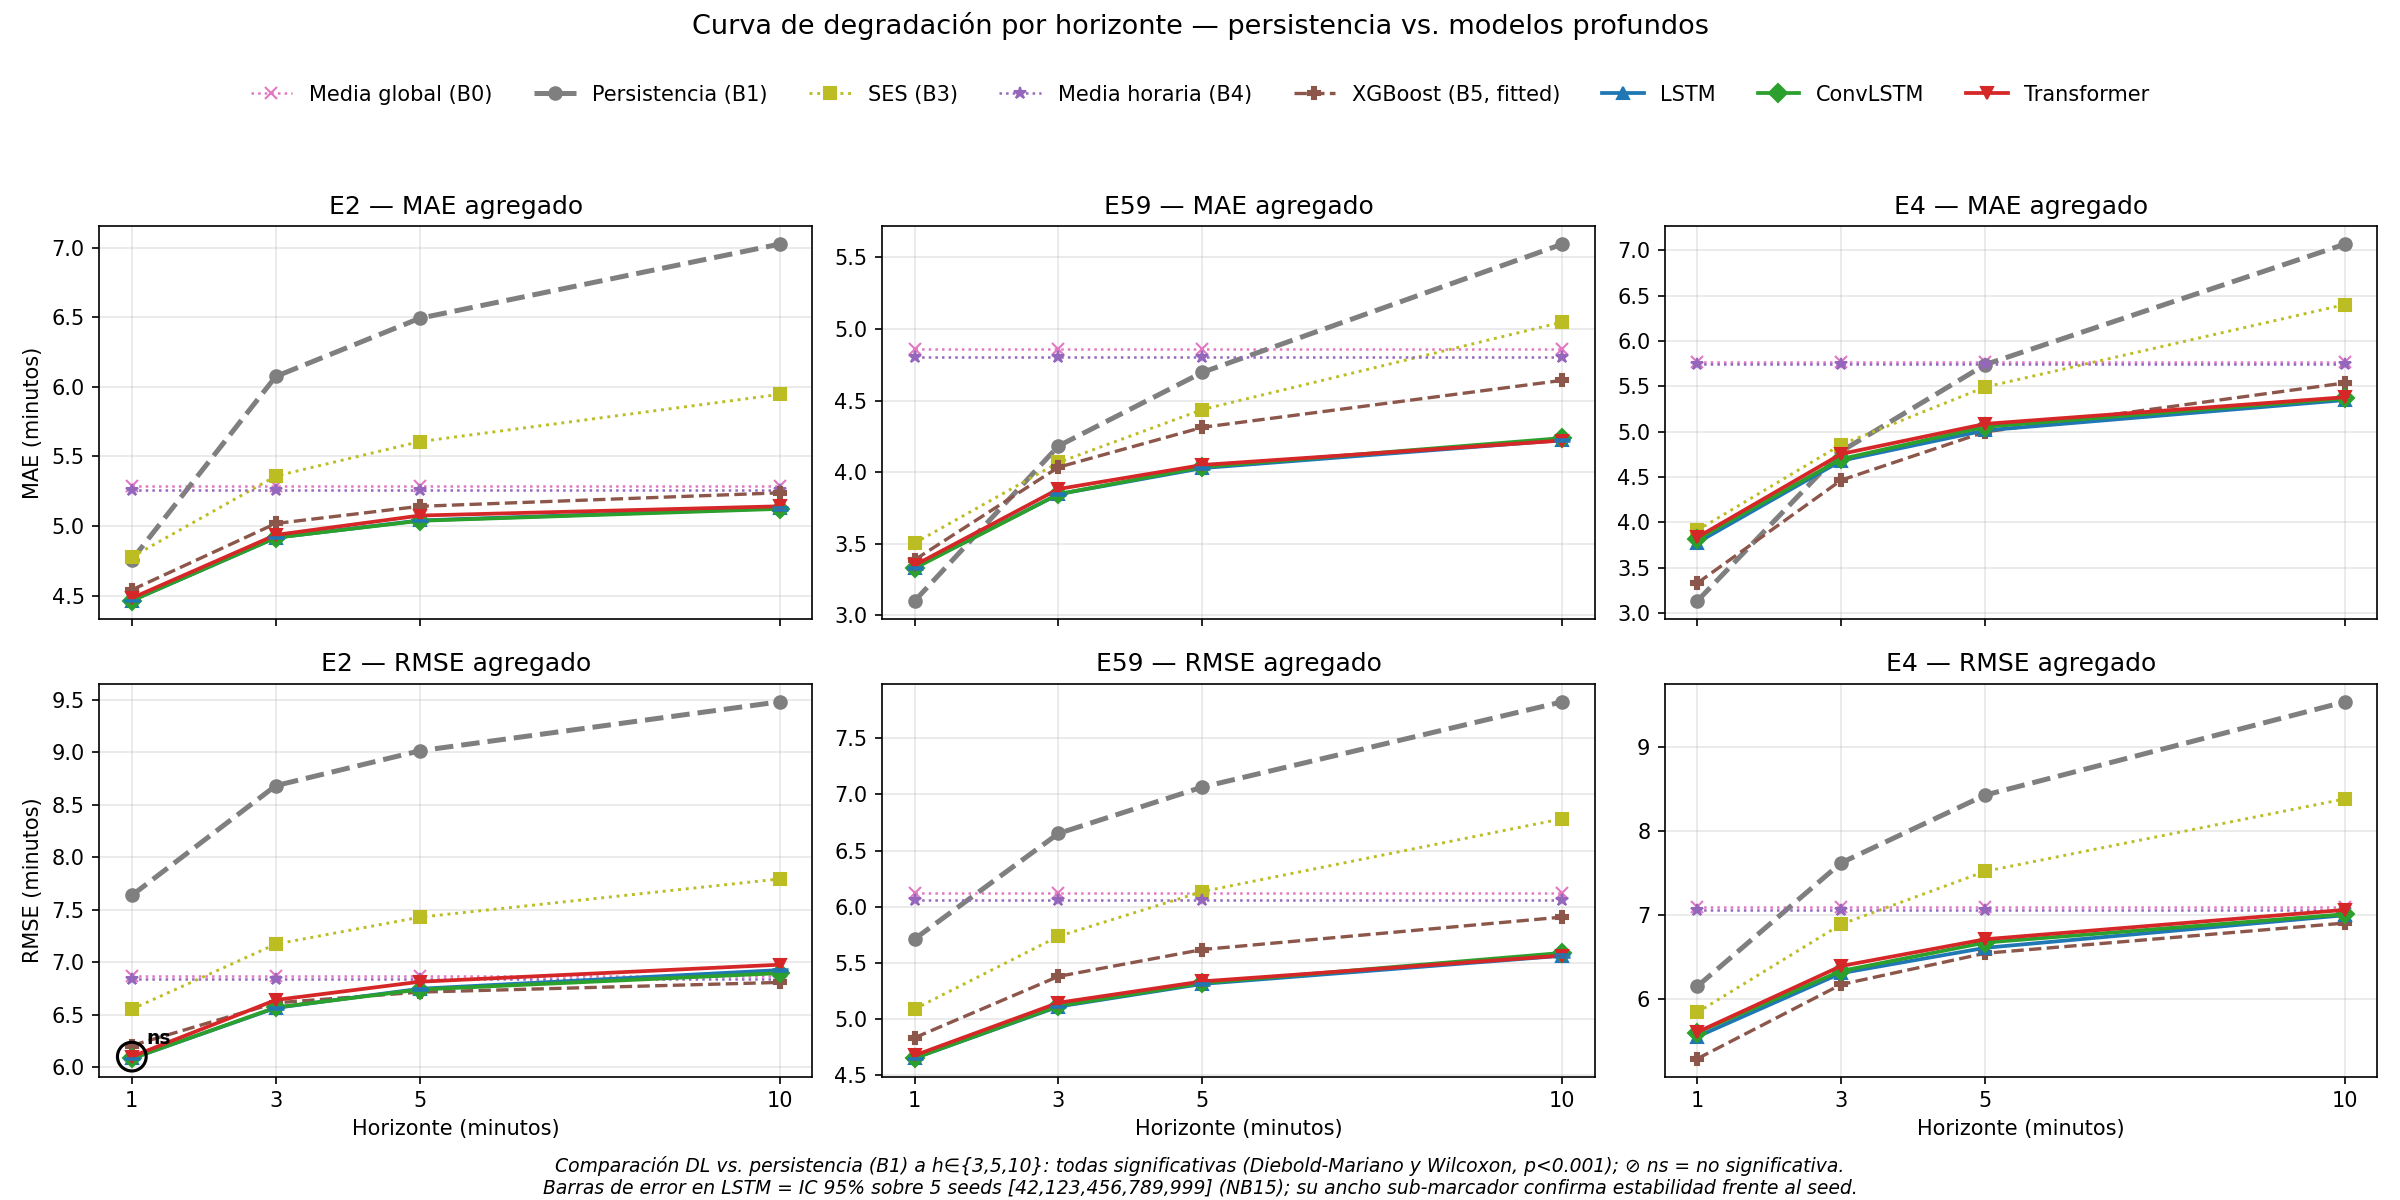
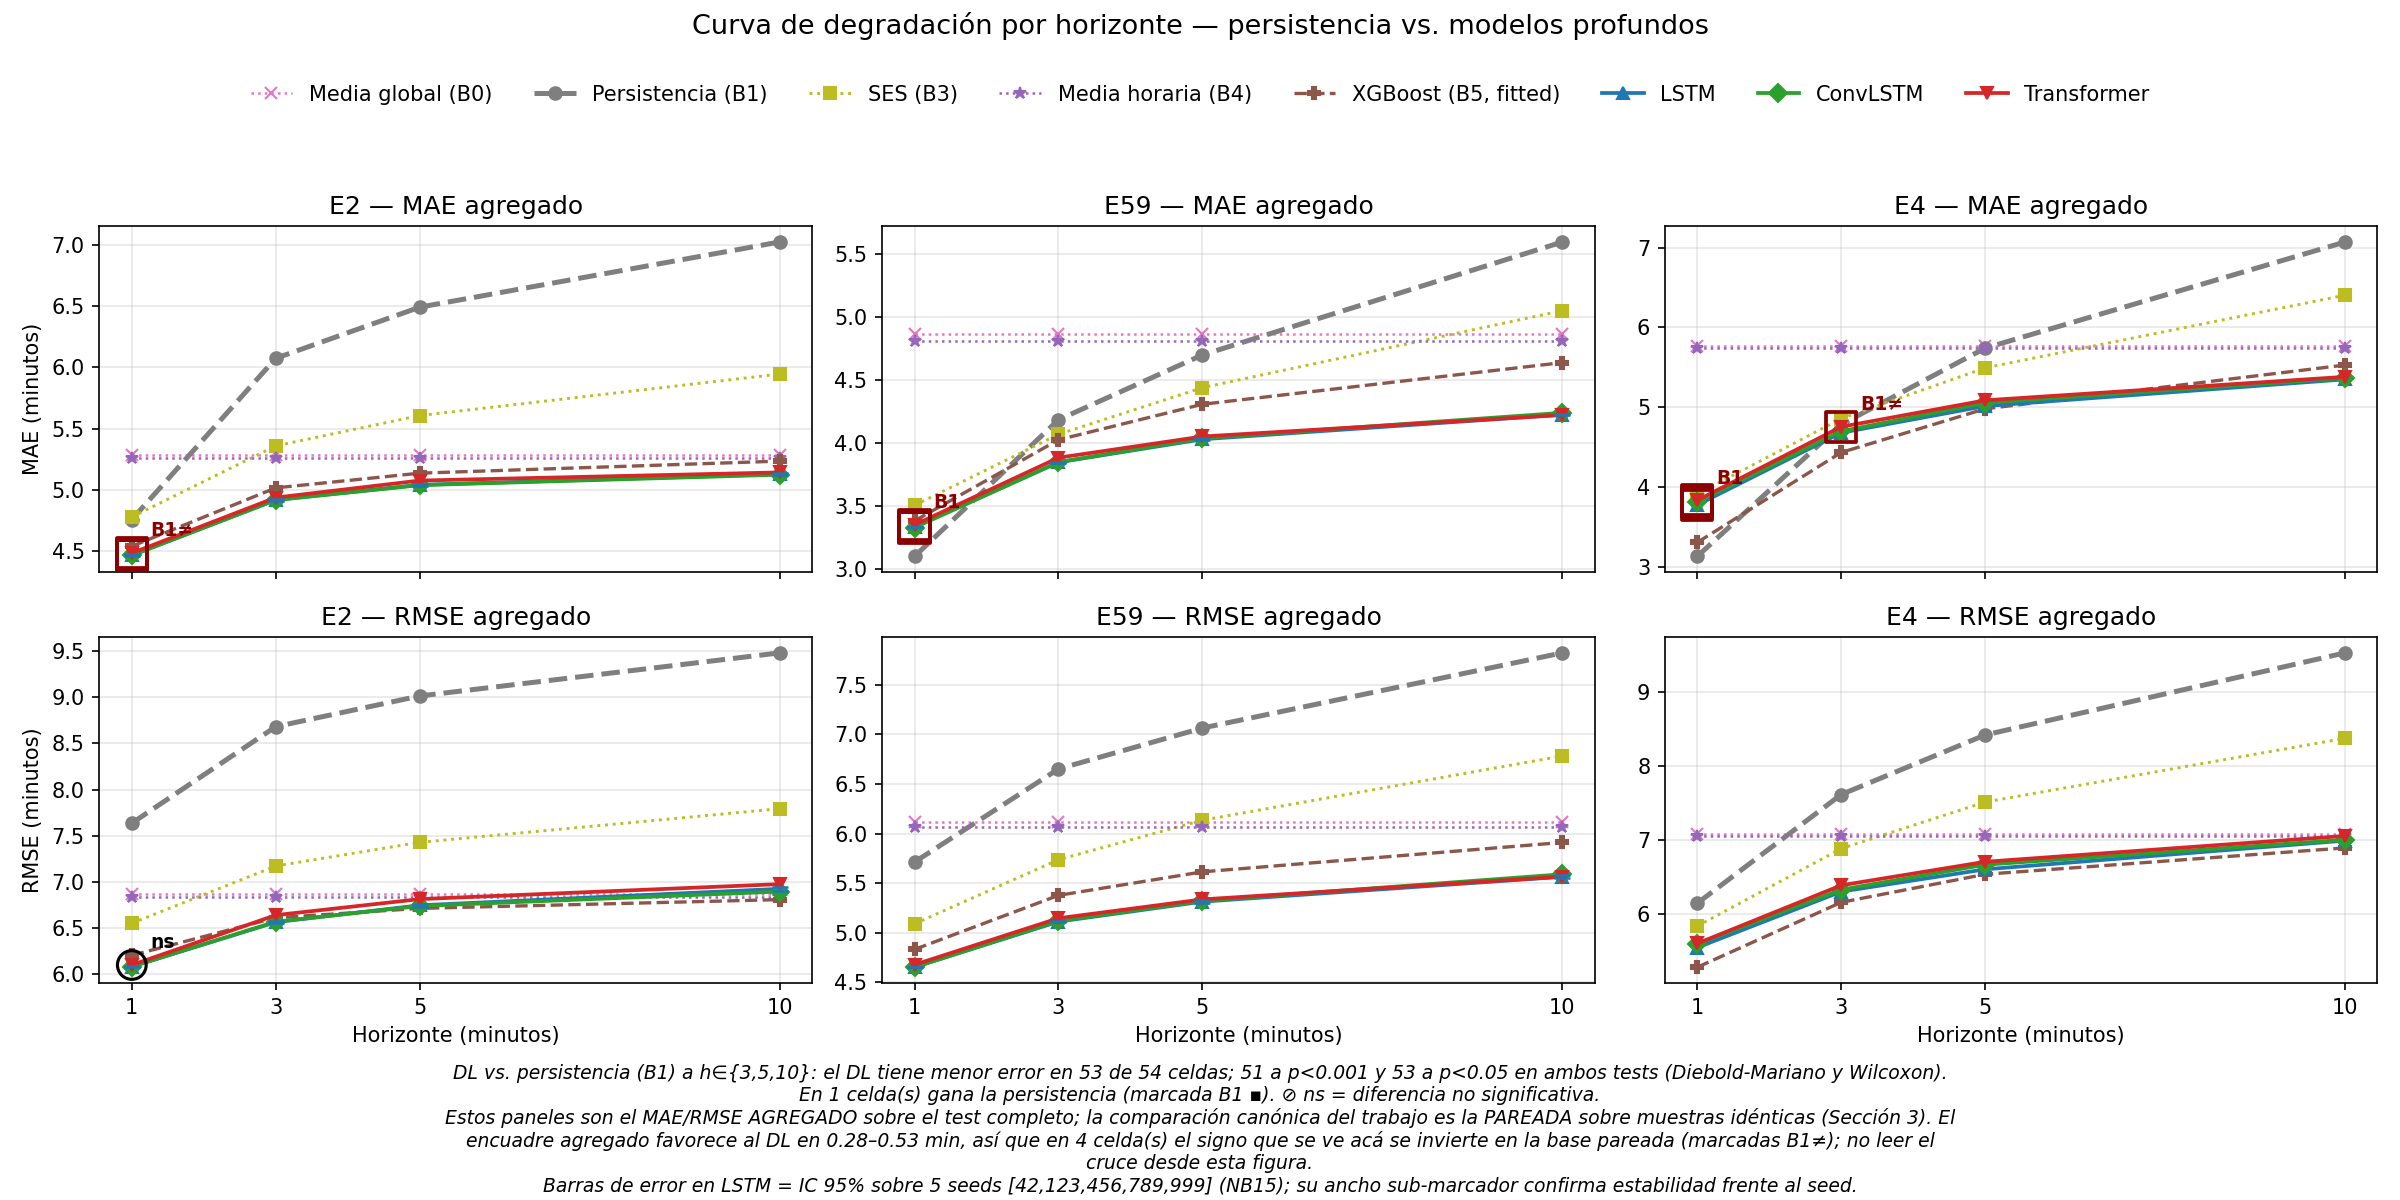
fix(report): corrige cuatro defectos de la Figura 1
1. XGBoost obsoleto. consolidated_multihorizon.csv y curva-degradacion.png se
   regeneraron por ultima vez en d3df5c6 (17-jul), tres dias antes de que
   entrara el XGBoost nivelado en 4098d32. Cambian 72 filas y solo del baseline
   B5_XGB; todo lo demas queda byte-identico. El XGBoost obsoleto era peor en
   todas las celdas, es decir favorecia al DL.

2. El pie sobreafirmaba la significancia. Estaba hardcodeado como "todas
   significativas p<0.001", falso en tres formas: son 51 de 53 a p<0.001, 53 a
   p<0.05, y una celda va en direccion contraria. Ahora se calcula desde
   significance_multihorizon.csv.

3. _load_significance ignoraba dl_better: evaluaba solo dm_p y wilcoxon_p, asi
   que las 10 celdas donde la persistencia gana SIGNIFICATIVAMENTE pasaban el
   filtro como "significativas" y quedaban sin anillar — la figura las mostraba
   como victorias del DL. Entre ellas SpatialTransformer/E4/h3/MAE, dentro del
   rango que el pie declaraba como victorias del DL. Ahora hay tres verdictos
   distinguibles: B1, B1!= y ns.

4. El encuadre contradecia el titular. Los paneles son agregados (el unico
   encuadre en el que existen los baselines formulaicos y el ajustado), pero la
   comparacion canonica es pareada. Las 4 celdas donde el signo se invierte se
   marcan B1!= y el pie instruye no leer el cruce desde la figura.

Ademas: POLARS_MAX_THREADS=1 antes de importar polars (faltaba, y el builder
[…]

diff --git a/src/build_degradation_curve.py b/src/build_degradation_curve.py
@@ -13,18 +13,46 @@ Outputs (written to docs/resultados/):
     curva-degradacion.png           — 2x3 grid: rows MAE/RMSE, cols E2/E59/E4
 
 Significance: each deep-model point is tested against persistence (B1) with the
-paired Diebold-Mariano and Wilcoxon tests (see build_significance_table.py). All
-DL-vs-persistence comparisons are significant; the single exception is ringed and
-labelled ``ns`` on the figure, with a footnote stating the global claim. The
-significance verdicts are read from the versioned significance_multihorizon.csv,
-so the figure rebuilds without the (unversioned) raw per-sample residuals.
+paired Diebold-Mariano and Wilcoxon tests (see build_significance_table.py). The
+verdicts are read from the versioned significance_multihorizon.csv, so the figure
+rebuilds without the (unversioned) raw per-sample residuals.
+
+Three annotation rules, all derived from the data rather than asserted:
+
+* ``B1`` + square ring — persistence is significantly BETTER than the deep model
+  (``dl_better`` is false). These must be marked: an earlier version of this
+  builder tested only ``dm_p``/``wilcoxon_p`` and ignored ``dl_better``, so a
+  significant win *for persistence* rendered as an unannotated point, implying
+  the opposite of the truth. ``SpatialTransformer / E4 / h=3 / MAE`` is exactly
+  such a cell and it sits inside the h∈{3,5,10} band the footnote describes.
+* ``ns`` + circle ring — the gap is not significant at ALPHA in both tests.
+* Nothing — the deep model wins significantly.
+
+Framing caveat, stated on the figure itself: these panels plot the AGGREGATE
+metric over the full test split, whereas the paper's canonical DL-vs-persistence
+claim is the PAIRED one over identical samples. The two framings disagree in
+sign for a handful of cells (read from paired_vs_reported_audit.csv and counted
+into the footnote), all of them at the crossover where the true margin is
+smaller than the framing bias. Every such cell also has ``dl_better`` false, so
+the ``B1`` marker already flags it visually; the footnote names the cause.
+
+The significance footnote is COMPUTED from significance_multihorizon.csv, never
+hardcoded — the previous text claimed "todas significativas ... p<0.001", which
+was false in three separate ways.
 """
 from __future__ import annotations
 
-from pathlib import Path
+import os
 
-import polars as pl
-import matplotlib
+# Byte-identical consolidated CSV across runs (see CLAUDE.md determinism
+# contract). Must precede the polars import.
+os.environ.setdefault("POLARS_MAX_THREADS", "1")
+
+import textwrap  # noqa: E402
+from pathlib import Path  # noqa: E402
+
+import polars as pl  # noqa: E402
+import matplotlib  # noqa: E402
 
 matplotlib.use("Agg")  # headless: no display in WSL/CI
 import matplotlib.pyplot as plt  # noqa: E402
@@ -54,7 +82,24 @@ CORRIDORS = ["E2", "E59", "E4"]
 # Deep models whose points are tested against persistence (B1).
 DL_MODELS = {"LSTM", "SpatialConvLSTM", "SpatialTransformer"}
 SIG_CSV = RESULTS_DIR / "significance_multihorizon.csv"
+# Paired-vs-aggregate reconciliation: names the cells where this figure's framing
+# disagrees in sign with the paper's canonical paired base.
+PAIRED_AUDIT_CSV = RESULTS_DIR / "paired_vs_reported_audit.csv"
 ALPHA = 0.05  # two-tailed threshold for both DM and Wilcoxon
+
+# Verdict markers. "B1"/"B1≠" (persistence wins / and the paired framing also
+# reverses this panel) are deliberately louder than "ns": a reader skimming the
+# panels is far more likely to misread a persistence win as a DL win than to
+# over-read a non-significant gap.
+MARK_STYLES = {
+    "B1":  {"marker": "s", "color": "darkred", "s": 210, "lw": 1.8},
+    "B1≠": {"marker": "s", "color": "darkred", "s": 210, "lw": 1.8},
+    "ns":  {"marker": "o", "color": "black", "s": 190, "lw": 1.5},
+}
+
+# Footnote wrapping width in characters. The figure is 16 in wide at fontsize 9;
+# unwrapped captions ran off both edges and were silently clipped.
+FOOTNOTE_WRAP = 155
 
 # Multi-seed confidence intervals (C2 / NB15). The LSTM was re-run with 5 seeds;
 # its 95% interval is drawn as error bars on the LSTM line (proxy for the whole
@@ -68,20 +113,74 @@ def _horizon_axis(table_cols: list[str]) -> list[int]:
     return sorted(int(c[1:]) for c in table_cols if c.startswith("h"))
 
 
-def _load_significance(sig_csv: Path) -> dict[tuple[str, str, str, int], bool]:
-    """Map (model, metric, corridor, horizon) -> is the gap significant?
+def _load_significance(
+    sig_csv: Path,
+) -> dict[tuple[str, str, str, int], tuple[bool, bool]]:
+    """Map (model, metric, corridor, horizon) -> (is_significant, dl_better).
 
     A point is significant when BOTH the Diebold-Mariano and the Wilcoxon p-value
-    fall below ``ALPHA``. Missing file -> empty map (figure renders unannotated).
+    fall below ``ALPHA``. ``dl_better`` carries the DIRECTION of the effect and is
+    kept separate on purpose: significance without direction cannot distinguish
+    "the deep model wins" from "persistence wins", and conflating them is what
+    made an earlier version of this figure assert the reverse of its own table.
+    Missing file -> empty map (figure renders unannotated).
     """
     if not sig_csv.exists():
         return {}
     sig = pl.read_csv(sig_csv)
-    verdict: dict[tuple[str, str, str, int], bool] = {}
+    verdict: dict[tuple[str, str, str, int], tuple[bool, bool]] = {}
     for row in sig.iter_rows(named=True):
         key = (row["model"], row["metric"], row["corridor"], int(row["horizon"]))
-        verdict[key] = (row["dm_p"] < ALPHA) and (row["wilcoxon_p"] < ALPHA)
+        significant = (row["dm_p"] < ALPHA) and (row["wilcoxon_p"] < ALPHA)
+        verdict[key] = (significant, bool(row["dl_better"]))
     return verdict
+
+
+def _significance_footnote(sig_csv: Path, horizons: tuple[int, ...] = (3, 5, 10)) -> str:
+    """Build the significance caption FROM the table, for the operational band.
+
+    Counts, over the DL-vs-persistence cells at ``horizons``: how many favour the
+    deep model, how many of those clear p<0.001 in both tests, how many only
+    clear p<0.05, and how many favour persistence instead. Hardcoding this text
+    is how the figure came to overstate its own evidence.
+    """
+    if not sig_csv.exists():
+        return ""
+    sig = pl.read_csv(sig_csv).filter(pl.col("horizon").is_in(list(horizons)))
+    total = sig.height
+    dl_win = sig.filter(pl.col("dl_better"))
+    p001 = dl_win.filter((pl.col("dm_p") < 1e-3) & (pl.col("wilcoxon_p") < 1e-3)).height
+    p05 = dl_win.filter((pl.col("dm_p") < ALPHA) & (pl.col("wilcoxon_p") < ALPHA)).height
+    reversed_cells = total - dl_win.height
+    band = "{" + ",".join(str(h) for h in horizons) + "}"
+    parts = [
+        f"DL vs. persistencia (B1) a h∈{band}: el DL tiene menor error en "
+        f"{dl_win.height} de {total} celdas; {p001} a p<0.001 y {p05} a p<0.05 "
+        f"en ambos tests (Diebold-Mariano y Wilcoxon)."
+    ]
+    if reversed_cells:
+        parts.append(
+            f"En {reversed_cells} celda(s) gana la persistencia (marcada B1 ▪)."
+        )
+    parts.append("⊘ ns = diferencia no significativa.")
+    return " ".join(parts)
+
+
+def _load_sign_mismatch(audit_csv: Path) -> set[tuple[str, str, str, int]]:
+    """Cells where the AGGREGATE framing disagrees in sign with the PAIRED one.
+
+    The figure plots aggregate metrics (the only framing in which the formulaic
+    and fitted baselines exist at all), but the paper's canonical claim is paired
+    over identical samples. Where the two disagree the figure must say so rather
+    than let the reader take the panel as the verdict.
+    """
+    if not audit_csv.exists():
+        return set()
+    audit = pl.read_csv(audit_csv).filter(pl.col("sign_mismatch"))
+    return {
+        (r["model"], r["metric"], r["corridor"], int(r["horizon"]))
+        for r in audit.iter_rows(named=True)
+    }
 
 
 def _load_multiseed_ci(ci_csv: Path) -> dict[tuple[str, str, int], float]:
@@ -116,6 +215,7 @@ def build(results_dir: Path = RESULTS_DIR, out_dir: Path = OUT_DIR) -> Path:
 
     significance = _load_significance(SIG_CSV)
     multiseed_ci = _load_multiseed_ci(MULTISEED_CI_CSV)
+    sign_mismatch = _load_sign_mismatch(PAIRED_AUDIT_CSV)
 
     fig, axes = plt.subplots(2, 3, figsize=(16, 8), sharex=True)
     for row, metric in enumerate(METRICS):
@@ -126,6 +226,7 @@ def build(results_dir: Path = RESULTS_DIR, out_dir: Path = OUT_DIR) -> Path:
             )
             horizons = _horizon_axis(table.columns)
             present = set(table["baseline"])
+            marks: dict[str, list[tuple[int, float]]] = {}
             for name, label, color, marker, ls, lw in MODELS:
                 if name not in present:
                     continue
@@ -146,20 +247,44 @@ def build(results_dir: Path = RESULTS_DIR, out_dir: Path = OUT_DIR) -> Path:
                             xs, ys, yerr=yerr, fmt="none", ecolor=color,
                             elinewidth=1.2, capsize=4, capthick=1.2, zorder=6,
                         )
-                # Ring + label the rare DL-vs-persistence point that is NOT
-                # statistically significant (verdict explicitly False; h=1 and
-                # baselines have no paired test and are left unmarked).
+                # Collect the DL points whose verdict is not "the deep model wins
+                # significantly". Rings are drawn per model (three stacked rings
+                # is itself information), but the text label is emitted ONCE per
+                # (horizon, verdict) after the loop — at h=1 the three models
+                # land on nearly the same y and three copies of the same label
+                # overlap into noise.
                 if name in DL_MODELS:
                     for x, y in zip(xs, ys):
-                        if significance.get((name, metric, corridor, x)) is False:
-                            ax.scatter(
-                                [x], [y], s=190, facecolors="none",
-                                edgecolors="black", linewidths=1.5, zorder=5,
-                            )
-                            ax.annotate(
-                                "ns", (x, y), textcoords="offset points",
-                                xytext=(7, 6), fontsize=9, fontweight="bold",
-                            )
+                        verdict = significance.get((name, metric, corridor, x))
+                        if verdict is None:
+                            continue
+                        significant, dl_better = verdict
+                        if not dl_better:
+                            kind = ("B1≠" if (name, metric, corridor, x)
+                                    in sign_mismatch else "B1")
+                        elif not significant:
+                            kind = "ns"
+                        else:
+                            continue
+                        marks.setdefault(kind, []).append((x, y))
+            # Draw the collected verdict marks: a ring on every affected model
+            # point, one text label per (horizon, verdict) placed above the
+            # topmost ring of that group.
+            for kind, pts in marks.items():
+                style = MARK_STYLES[kind]
+                ax.scatter(
+                    [p[0] for p in pts], [p[1] for p in pts],
+                    s=style["s"], facecolors="none",
+                    edgecolors=style["color"], linewidths=style["lw"],
+                    marker=style["marker"], zorder=5,
+                )
+                for x in sorted({p[0] for p in pts}):
+                    top = max(p[1] for p in pts if p[0] == x)
+                    ax.annotate(
+                        kind, (x, top), textcoords="offset points",
+                        xytext=(9, 8), fontsize=9, fontweight="bold",
+                        color=style["color"],
+                    )
             ax.set_title(f"{corridor} — {metric} agregado")
             ax.grid(True, alpha=0.3)
             ax.set_xticks(horizons)
@@ -179,21 +304,32 @@ def build(results_dir: Path = RESULTS_DIR, out_dir: Path = OUT_DIR) -> Path:
     )
     footnotes = []
     if significance:
-        footnotes.append(
-            "Comparación DL vs. persistencia (B1) a h∈{3,5,10}: todas significativas "
-            "(Diebold-Mariano y Wilcoxon, p<0.001); ⊘ ns = no significativa."
-        )
+        footnotes.append(_significance_footnote(SIG_CSV))
+    # The framing caveat is not optional: without it a reader takes these
+    # aggregate panels as the paper's verdict, which at the crossover they are not.
+    footnotes.append(
+        "Estos paneles son el MAE/RMSE AGREGADO sobre el test completo; la "
+        "comparación canónica del trabajo es la PAREADA sobre muestras idénticas "
+        "(Sección 3). El encuadre agregado favorece al DL en 0.28–0.53 min, así "
+        f"que en {len(sign_mismatch)} celda(s) el signo que se ve acá se invierte "
+        "en la base pareada (marcadas B1≠); no leer el cruce desde esta figura."
+    )
     if multiseed_ci:
         footnotes.append(
             "Barras de error en LSTM = IC 95% sobre 5 seeds [42,123,456,789,999] "
             "(NB15); su ancho sub-marcador confirma estabilidad frente al seed."
         )
     if footnotes:
-        fig.text(
-            0.5, 0.005, "\n".join(footnotes),
-            ha="center", fontsize=9, style="italic",
+        wrapped = "\n".join(
+            textwrap.fill(f, width=FOOTNOTE_WRAP) for f in footnotes if f
         )
-    fig.tight_layout(rect=(0, 0.03, 1, 0.90))
+        fig.text(
+            0.5, 0.004, wrapped,
+            ha="center", va="bottom", fontsize=9, style="italic",
+        )
+    # Bottom margin scales with the wrapped caption so it is never clipped.
+    n_lines = wrapped.count("\n") + 1 if footnotes else 0
+    fig.tight_layout(rect=(0, 0.018 * n_lines, 1, 0.90))
 
     fig_path = out_dir / "curva-degradacion.png"
     fig.savefig(fig_path, dpi=150)
